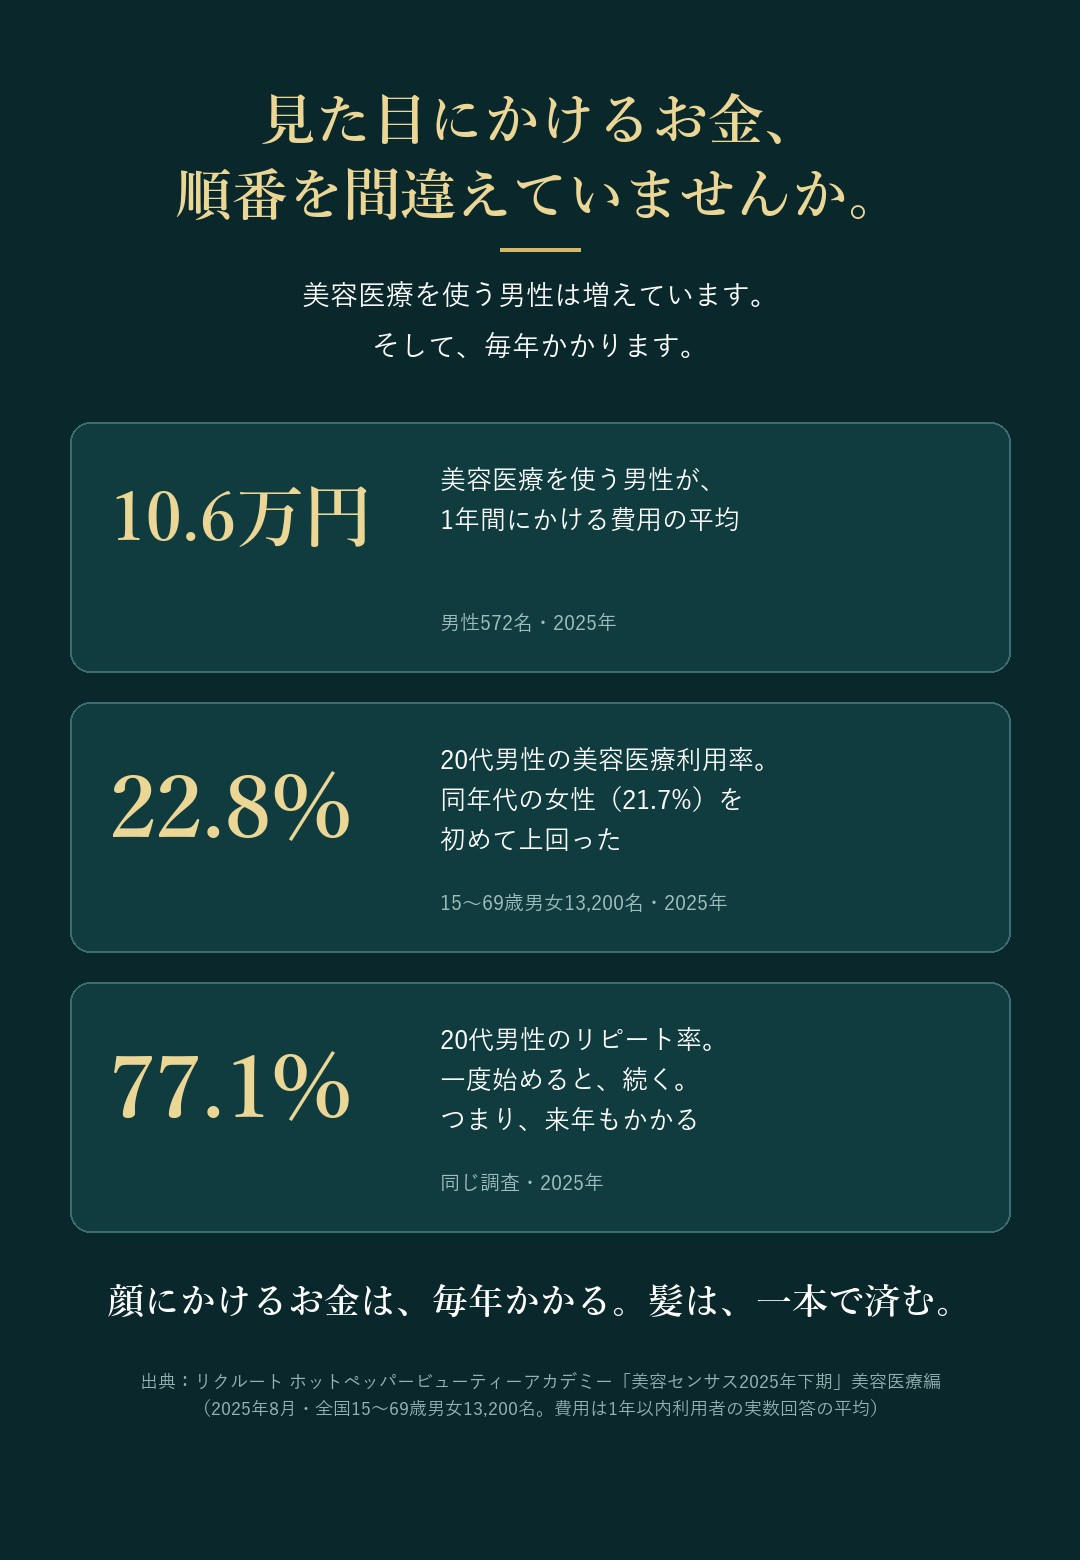
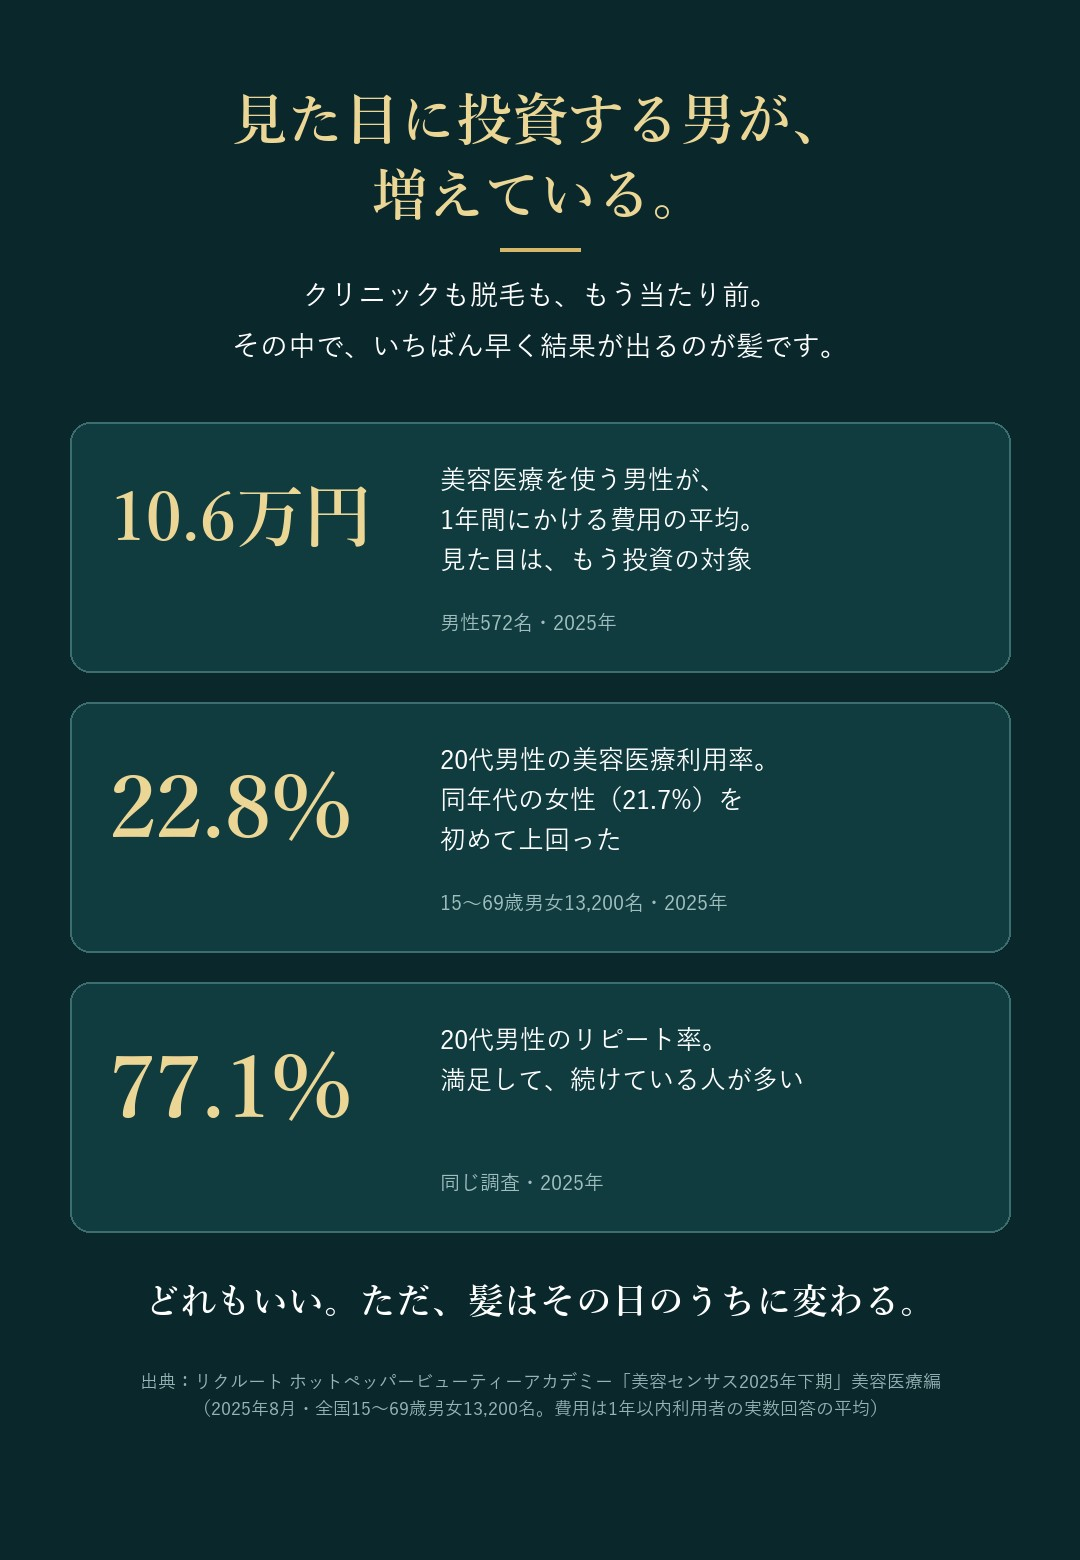
訴求1を雰囲気イケメンに寄せる／訴求2のデータ区切りを差し替え／訴求3をクリニック・脱毛を否定しない言い方に

diff --git a/a/index.html b/a/index.html
@@ -33,24 +33,24 @@ details ul{padding-left:18px}
 </head>
 <body>
 <main>
-<img src="lp01.jpg?v=202609281009" alt="一番上">
-<img src="lp02.jpg?v=202609281009" alt="データ" loading="lazy">
-<img src="lp03.jpg?v=202609281009" alt="悩み" loading="lazy">
-<img src="lp04.jpg?v=202609281009" alt="データ アイロンを使う男は増えている" loading="lazy">
-<img src="lp05.jpg?v=202609281009" alt="ストーリー1" loading="lazy">
-<img src="lp06.jpg?v=202609281009" alt="ストーリー2" loading="lazy">
-<img src="lp07.jpg?v=202609281009" alt="だから作った ヘアアイロン社長のストーリー" loading="lazy">
-<img src="lp08.jpg?v=202609281009" alt="強み1 ひと流しで毛流れ" loading="lazy">
-<img src="lp09.jpg?v=202609281009" alt="強み2 3ステップ" loading="lazy">
-<img src="lp10.jpg?v=202609281009" alt="強み3 見せる道具" loading="lazy">
-<img src="lp11.jpg?v=202609281009" alt="強み4 箱" loading="lazy">
-<img src="lp12.jpg?v=202609281009" alt="細かい作り" loading="lazy">
-<img src="lp13.jpg?v=202609281009" alt="こんな人に" loading="lazy">
-<img src="lp14.jpg?v=202609281009" alt="発売と価格" loading="lazy">
-<img src="lp15.jpg?v=202609281009" alt="なぜ先行登録" loading="lazy">
-<img src="lp16.jpg?v=202609281009" alt="安心して登録するために" loading="lazy">
-<img src="lp17.jpg?v=202609281009" alt="作った人 ヘアアイロン社長" loading="lazy">
-<a href="https://lin.ee/XXXXXXX" class="line-link"><img src="lp18.jpg?v=202609281009" alt="LINE登録" loading="lazy"></a>
+<img src="lp01.jpg?v=202609281023" alt="一番上">
+<img src="lp02.jpg?v=202609281023" alt="データ" loading="lazy">
+<img src="lp03.jpg?v=202609281023" alt="悩み" loading="lazy">
+<img src="lp04.jpg?v=202609281023" alt="データ アイロンを使う男は増えている" loading="lazy">
+<img src="lp05.jpg?v=202609281023" alt="ストーリー1" loading="lazy">
+<img src="lp06.jpg?v=202609281023" alt="ストーリー2" loading="lazy">
+<img src="lp07.jpg?v=202609281023" alt="だから作った ヘアアイロン社長のストーリー" loading="lazy">
+<img src="lp08.jpg?v=202609281023" alt="強み1 ひと流しで毛流れ" loading="lazy">
+<img src="lp09.jpg?v=202609281023" alt="強み2 3ステップ" loading="lazy">
+<img src="lp10.jpg?v=202609281023" alt="強み3 見せる道具" loading="lazy">
+<img src="lp11.jpg?v=202609281023" alt="強み4 箱" loading="lazy">
+<img src="lp12.jpg?v=202609281023" alt="細かい作り" loading="lazy">
+<img src="lp13.jpg?v=202609281023" alt="こんな人に" loading="lazy">
+<img src="lp14.jpg?v=202609281023" alt="発売と価格" loading="lazy">
+<img src="lp15.jpg?v=202609281023" alt="なぜ先行登録" loading="lazy">
+<img src="lp16.jpg?v=202609281023" alt="安心して登録するために" loading="lazy">
+<img src="lp17.jpg?v=202609281023" alt="作った人 ヘアアイロン社長" loading="lazy">
+<a href="https://lin.ee/XXXXXXX" class="line-link"><img src="lp18.jpg?v=202609281023" alt="LINE登録" loading="lazy"></a>
 
 <section class="info">
   <h2>運営者情報</h2>

diff --git a/b/index.html b/b/index.html
@@ -33,24 +33,24 @@ details ul{padding-left:18px}
 </head>
 <body>
 <main>
-<img src="lp01.jpg?v=202609281009" alt="一番上">
-<img src="lp02.jpg?v=202609281009" alt="データ" loading="lazy">
-<img src="lp03.jpg?v=202609281009" alt="悩み" loading="lazy">
-<img src="lp04.jpg?v=202609281009" alt="データ アイロンを使う男は増えている" loading="lazy">
-<img src="lp05.jpg?v=202609281009" alt="ストーリー1" loading="lazy">
-<img src="lp06.jpg?v=202609281009" alt="ストーリー2" loading="lazy">
-<img src="lp07.jpg?v=202609281009" alt="だから作った ヘアアイロン社長のストーリー" loading="lazy">
-<img src="lp08.jpg?v=202609281009" alt="強み1 ひと流しで毛流れ" loading="lazy">
-<img src="lp09.jpg?v=202609281009" alt="強み2 3ステップ" loading="lazy">
-<img src="lp10.jpg?v=202609281009" alt="強み3 見せる道具" loading="lazy">
-<img src="lp11.jpg?v=202609281009" alt="強み4 箱" loading="lazy">
-<img src="lp12.jpg?v=202609281009" alt="細かい作り" loading="lazy">
-<img src="lp13.jpg?v=202609281009" alt="こんな人に" loading="lazy">
-<img src="lp14.jpg?v=202609281009" alt="発売と価格" loading="lazy">
-<img src="lp15.jpg?v=202609281009" alt="なぜ先行登録" loading="lazy">
-<img src="lp16.jpg?v=202609281009" alt="安心して登録するために" loading="lazy">
-<img src="lp17.jpg?v=202609281009" alt="作った人 ヘアアイロン社長" loading="lazy">
-<a href="https://lin.ee/XXXXXXX" class="line-link"><img src="lp18.jpg?v=202609281009" alt="LINE登録" loading="lazy"></a>
+<img src="lp01.jpg?v=202609281023" alt="一番上">
+<img src="lp02.jpg?v=202609281023" alt="データ" loading="lazy">
+<img src="lp03.jpg?v=202609281023" alt="悩み" loading="lazy">
+<img src="lp04.jpg?v=202609281023" alt="データ アイロンを使う男は増えている" loading="lazy">
+<img src="lp05.jpg?v=202609281023" alt="ストーリー1" loading="lazy">
+<img src="lp06.jpg?v=202609281023" alt="ストーリー2" loading="lazy">
+<img src="lp07.jpg?v=202609281023" alt="だから作った ヘアアイロン社長のストーリー" loading="lazy">
+<img src="lp08.jpg?v=202609281023" alt="強み1 ひと流しで毛流れ" loading="lazy">
+<img src="lp09.jpg?v=202609281023" alt="強み2 3ステップ" loading="lazy">
+<img src="lp10.jpg?v=202609281023" alt="強み3 見せる道具" loading="lazy">
+<img src="lp11.jpg?v=202609281023" alt="強み4 箱" loading="lazy">
+<img src="lp12.jpg?v=202609281023" alt="細かい作り" loading="lazy">
+<img src="lp13.jpg?v=202609281023" alt="こんな人に" loading="lazy">
+<img src="lp14.jpg?v=202609281023" alt="発売と価格" loading="lazy">
+<img src="lp15.jpg?v=202609281023" alt="なぜ先行登録" loading="lazy">
+<img src="lp16.jpg?v=202609281023" alt="安心して登録するために" loading="lazy">
+<img src="lp17.jpg?v=202609281023" alt="作った人 ヘアアイロン社長" loading="lazy">
+<a href="https://lin.ee/XXXXXXX" class="line-link"><img src="lp18.jpg?v=202609281023" alt="LINE登録" loading="lazy"></a>
 
 <section class="info">
   <h2>運営者情報</h2>

diff --git a/c/index.html b/c/index.html
@@ -33,24 +33,24 @@ details ul{padding-left:18px}
 </head>
 <body>
 <main>
-<img src="lp01.jpg?v=202609281009" alt="一番上">
-<img src="lp02.jpg?v=202609281009" alt="データ" loading="lazy">
-<img src="lp03.jpg?v=202609281009" alt="悩み" loading="lazy">
-<img src="lp04.jpg?v=202609281009" alt="データ アイロンを使う男は増えている" loading="lazy">
-<img src="lp05.jpg?v=202609281009" alt="ストーリー1" loading="lazy">
-<img src="lp06.jpg?v=202609281009" alt="ストーリー2" loading="lazy">
-<img src="lp07.jpg?v=202609281009" alt="だから作った ヘアアイロン社長のストーリー" loading="lazy">
-<img src="lp08.jpg?v=202609281009" alt="強み1 ひと流しで毛流れ" loading="lazy">
-<img src="lp09.jpg?v=202609281009" alt="強み2 3ステップ" loading="lazy">
-<img src="lp10.jpg?v=202609281009" alt="強み3 見せる道具" loading="lazy">
-<img src="lp11.jpg?v=202609281009" alt="強み4 箱" loading="lazy">
-<img src="lp12.jpg?v=202609281009" alt="細かい作り" loading="lazy">
-<img src="lp13.jpg?v=202609281009" alt="こんな人に" loading="lazy">
-<img src="lp14.jpg?v=202609281009" alt="発売と価格" loading="lazy">
-<img src="lp15.jpg?v=202609281009" alt="なぜ先行登録" loading="lazy">
-<img src="lp16.jpg?v=202609281009" alt="安心して登録するために" loading="lazy">
-<img src="lp17.jpg?v=202609281009" alt="作った人 ヘアアイロン社長" loading="lazy">
-<a href="https://lin.ee/XXXXXXX" class="line-link"><img src="lp18.jpg?v=202609281009" alt="LINE登録" loading="lazy"></a>
+<img src="lp01.jpg?v=202609281023" alt="一番上">
+<img src="lp02.jpg?v=202609281023" alt="データ" loading="lazy">
+<img src="lp03.jpg?v=202609281023" alt="悩み" loading="lazy">
+<img src="lp04.jpg?v=202609281023" alt="データ アイロンを使う男は増えている" loading="lazy">
+<img src="lp05.jpg?v=202609281023" alt="ストーリー1" loading="lazy">
+<img src="lp06.jpg?v=202609281023" alt="ストーリー2" loading="lazy">
+<img src="lp07.jpg?v=202609281023" alt="だから作った ヘアアイロン社長のストーリー" loading="lazy">
+<img src="lp08.jpg?v=202609281023" alt="強み1 ひと流しで毛流れ" loading="lazy">
+<img src="lp09.jpg?v=202609281023" alt="強み2 3ステップ" loading="lazy">
+<img src="lp10.jpg?v=202609281023" alt="強み3 見せる道具" loading="lazy">
+<img src="lp11.jpg?v=202609281023" alt="強み4 箱" loading="lazy">
+<img src="lp12.jpg?v=202609281023" alt="細かい作り" loading="lazy">
+<img src="lp13.jpg?v=202609281023" alt="こんな人に" loading="lazy">
+<img src="lp14.jpg?v=202609281023" alt="発売と価格" loading="lazy">
+<img src="lp15.jpg?v=202609281023" alt="なぜ先行登録" loading="lazy">
+<img src="lp16.jpg?v=202609281023" alt="安心して登録するために" loading="lazy">
+<img src="lp17.jpg?v=202609281023" alt="作った人 ヘアアイロン社長" loading="lazy">
+<a href="https://lin.ee/XXXXXXX" class="line-link"><img src="lp18.jpg?v=202609281023" alt="LINE登録" loading="lazy"></a>
 
 <section class="info">
   <h2>運営者情報</h2>
